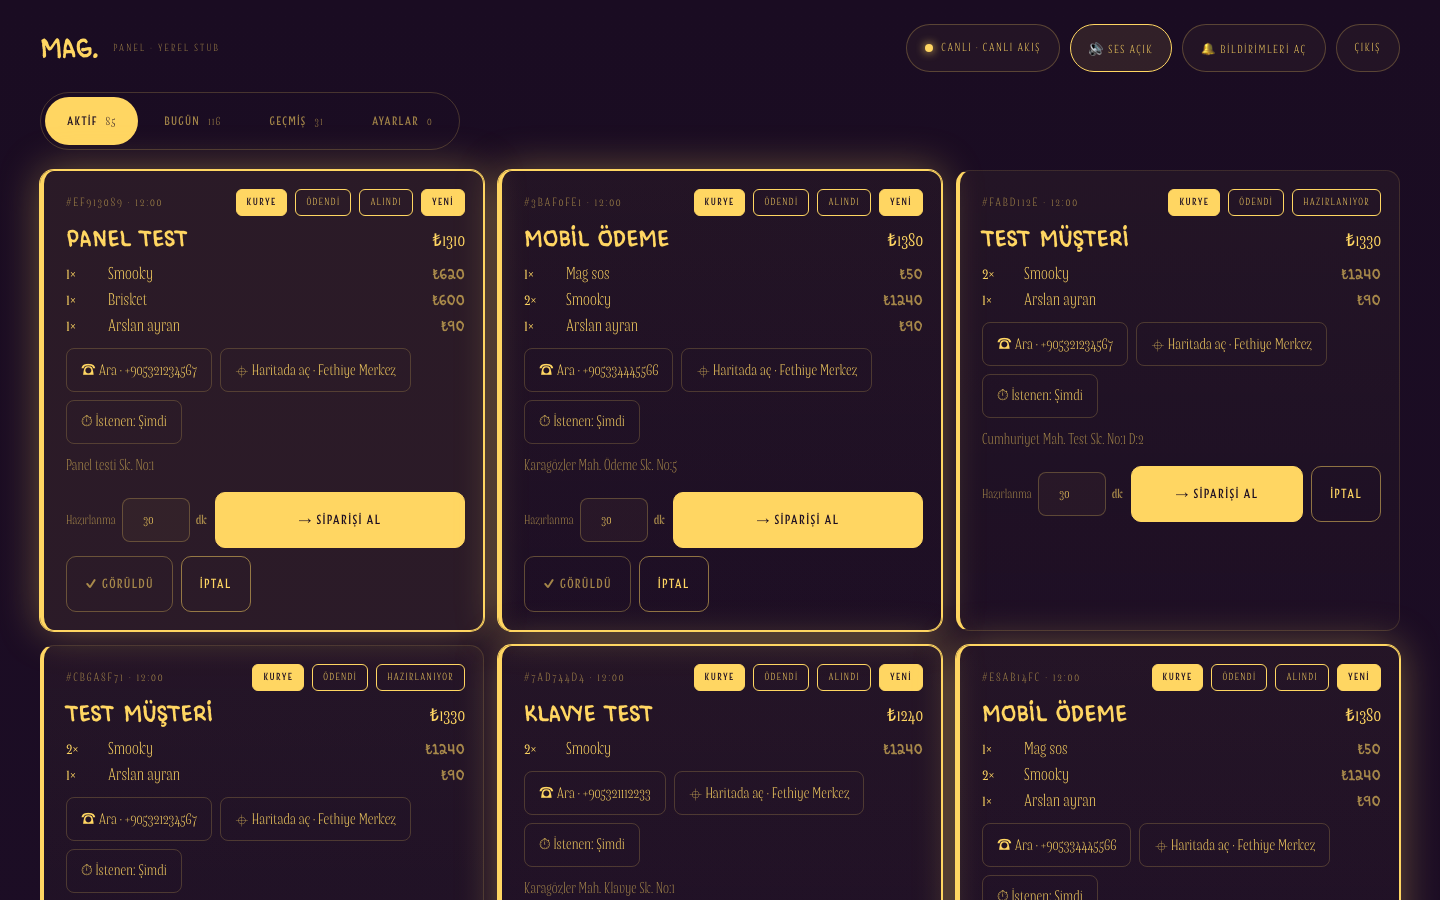
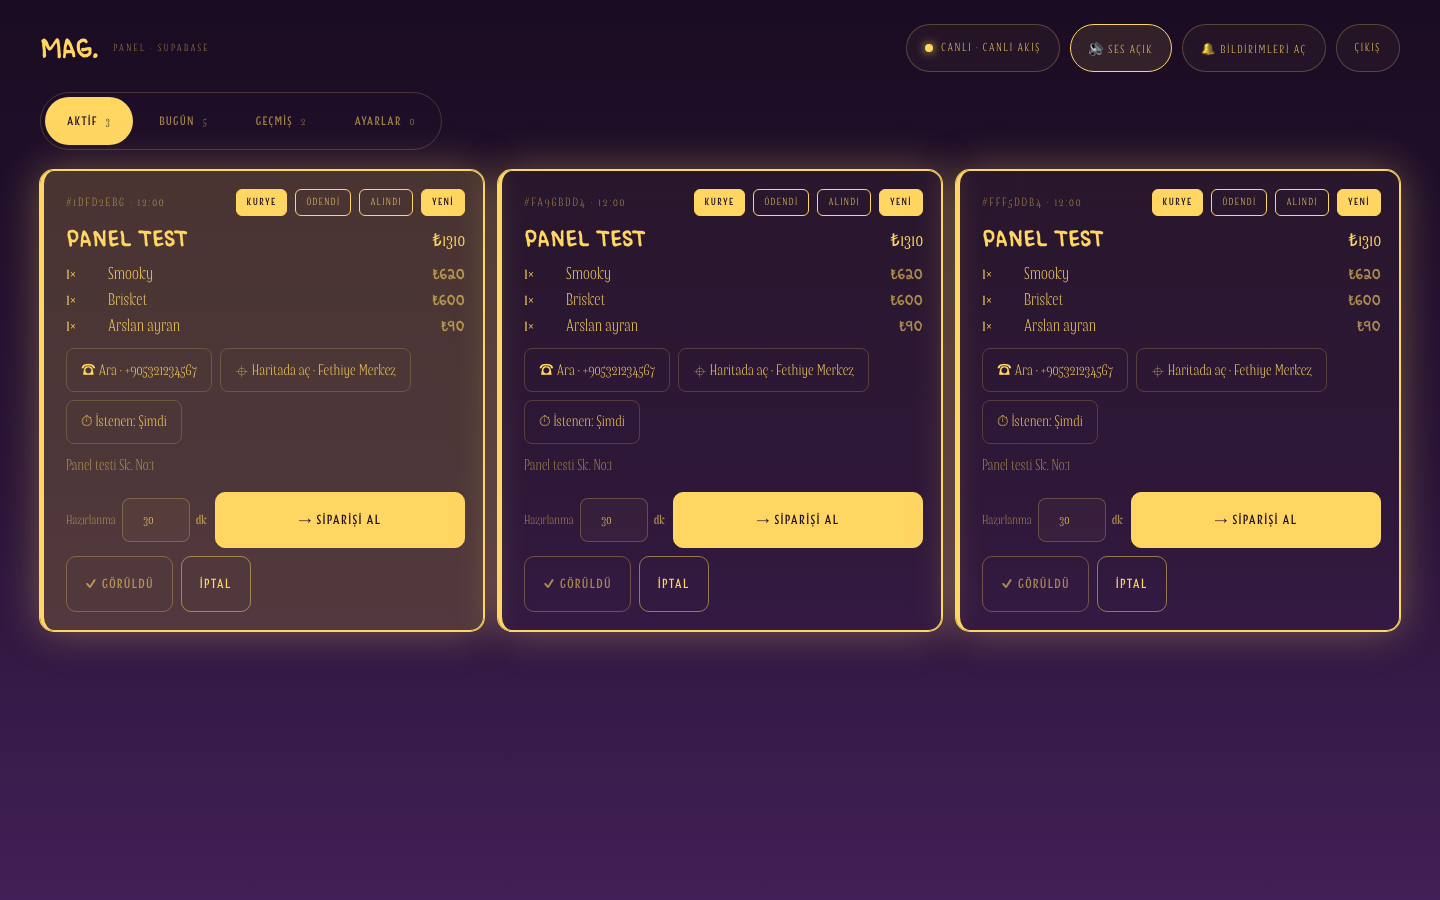
Panel girişi PANEL_KEY'e döndü: Supabase yalnızca veri katmanı
- panelMode(): Supabase anahtarları tanımlı olsa bile PANEL_KEY varsa 'key' modu döner.
  Supabase Auth artık zorunlu değil; isPanelAuthorized önce PANEL_KEY (başlık ya da imzalı
  httpOnly çerez) bakar, Supabase Bearer token'ı yalnızca ek yol olarak kabul edilir.
- Panel canlı akışı SSE'ye alındı. Neden: Supabase realtime, WAL satırını ABONENİN rolüyle
  RLS'ten geçiriyor; panel tarayıcıda anon anahtarıyla dinliyor ve 'orders' üzerinde anon SELECT
  politikası yok (bilinçli). Ölçüldü: panel açıkken paid güncellemesi 6 sn boyunca hiç gelmedi.
  SSE panel API'siyle aynı PANEL_KEY kapısından geçiyor, anon'a hiçbir okuma açılmıyor.
- Geçici Supabase Auth test kullanıcısı silindi; Auth tablosu boş.
- panel.mjs: canlı akış bağlanana kadar bekler (abonelik kurulmadan sipariş verilirse kayıt kaçıyordu),
  mobil kontrolü sipariş sekmesine döner. supabase-proof.mjs PANEL_KEY moduna göre güncellendi.

diff --git a/lib/panel-auth.ts b/lib/panel-auth.ts
@@ -1,7 +1,12 @@
 /**
- * Panel yetkisi — ÇİFT YOL:
- *  - Supabase varsa: `Authorization: Bearer <access_token>` (Supabase Auth, e-posta/şifre).
- *  - Yoksa: PANEL_KEY. `x-panel-key` başlığı ya da 30 günlük imzalı httpOnly çerez (`mag_panel`).
+ * Panel yetkisi — TEK ORTAK ŞİFRE (PANEL_KEY).
+ *
+ * KARAR (7 Eyl 2026, kullanıcı): Supabase YALNIZCA veri katmanıdır; kimlik doğrulama için
+ * kullanılmaz. Supabase anahtarları tanımlı olsa bile panel PANEL_KEY ile açılır.
+ *
+ *  - PANEL_KEY: `x-panel-key` başlığı ya da 30 günlük imzalı httpOnly çerez (`mag_panel`).
+ *  - Supabase Auth (Bearer) hâlâ KABUL EDİLİR ama zorunlu değildir: mevcut oturumlar kırılmasın
+ *    diye ek bir yol olarak durur; panel arayüzü şifre kapısını gösterir.
  *  - PANEL_KEY tanımsız: geliştirmede açık, üretimde (NODE_ENV=production) her zaman 401.
  */
 import { createHmac, timingSafeEqual } from "node:crypto";
@@ -12,10 +17,14 @@ export const PANEL_COOKIE = "mag_panel";
 export const PANEL_COOKIE_DAYS = 30;
 
 export type PanelMode = "supabase" | "key" | "open";
+/**
+ * Panelin göstereceği kapı. PANEL_KEY varsa HER ZAMAN şifre kapısı — Supabase anahtarları
+ * tanımlı olsa bile (Supabase yalnızca veri katmanı). Anahtar yoksa: geliştirmede açık,
+ * üretimde "key" (yani hiç kimse geçemez).
+ */
 export function panelMode(): PanelMode {
-  if (hasSupabaseServer()) return "supabase";
   if (process.env.PANEL_KEY) return "key";
-  return isProduction() ? "key" : "open"; // üretimde anahtar yoksa da "key" modu → hiç kimse geçemez
+  return isProduction() ? "key" : "open";
 }
 
 function sign(exp: number): string {
@@ -53,15 +62,22 @@ function cookieValue(req: Request, name: string): string | undefined {
 export async function isPanelAuthorized(req: Request): Promise<boolean> {
   const mode = panelMode();
   if (mode === "open") return true;
-  if (mode === "supabase") {
+
+  // 1) Asıl yol: PANEL_KEY (başlık ya da imzalı httpOnly çerez)
+  if (process.env.PANEL_KEY) {
+    if (checkPanelKey(req.headers.get("x-panel-key"))) return true;
+    if (verifyPanelToken(cookieValue(req, PANEL_COOKIE))) return true;
+  }
+
+  /* 2) Ek yol: Supabase Auth Bearer token'ı. Zorunlu değil; Supabase yapılandırılmışsa
+     var olan bir oturumla gelen isteği de kabul ederiz. PANEL_KEY yoksa tek geçerli yol budur. */
+  if (hasSupabaseServer()) {
     const auth = req.headers.get("authorization") || "";
     const token = auth.startsWith("Bearer ") ? auth.slice(7) : "";
-    if (!token) return false;
-    const { data, error } = await supabaseAdmin().auth.getUser(token);
-    return !error && Boolean(data.user);
+    if (token) {
+      const { data, error } = await supabaseAdmin().auth.getUser(token);
+      if (!error && data.user) return true;
+    }
   }
-  // key modu
-  if (!process.env.PANEL_KEY) return false; // üretim, anahtar yok → kapalı
-  if (checkPanelKey(req.headers.get("x-panel-key"))) return true;
-  return verifyPanelToken(cookieValue(req, PANEL_COOKIE));
+  return false;
 }

diff --git a/components/panel/PanelApp.tsx b/components/panel/PanelApp.tsx
@@ -1,7 +1,6 @@
 "use client";
 
 import { useCallback, useEffect, useMemo, useRef, useState } from "react";
-import { hasSupabaseClient } from "@/lib/env";
 import { getMessages } from "@/lib/i18n";
 import { OPEN_STATUSES, type Order, type OrderStatus } from "@/lib/orders";
 import { apiFetch } from "@/lib/panel-client";
@@ -136,18 +135,17 @@ export default function PanelApp() {
       const list = (await res.json()) as Order[];
       setOrders(new Map(list.map((o) => [o.id, o])));
 
-      if (hasSupabaseClient && store === "supabase") {
-        const sb = supabaseBrowser()!;
-        const ch = sb
-          .channel("orders-feed")
-          .on("postgres_changes", { event: "INSERT", schema: "public", table: "orders" }, (p) => upsert(p.new as Order, true))
-          .on("postgres_changes", { event: "UPDATE", schema: "public", table: "orders" }, (p) => upsert(p.new as Order, false))
-          .subscribe((s) => setLive(s === "SUBSCRIBED"));
-        stop = () => {
-          sb.removeChannel(ch);
-        };
-        setFeed("realtime");
-      } else {
+      /* CANLI AKIŞ SEÇİMİ
+         Supabase realtime, WAL'dan gelen satırı ABONENİN rolüyle RLS'ten geçirir. Panel tarayıcıda
+         anon anahtarıyla dinler; `orders` üzerinde anon SELECT politikası YOK (bilinçli: müşteri
+         verisi anon'a açılmamalı), bu yüzden INSERT/UPDATE olayları abonelere hiç düşmüyordu —
+         ölçüldü: panel açıkken paid güncellemesi 6 sn boyunca gelmedi.
+
+         Çözüm: panel akışı sunucu üzerinden (SSE). Panel API'si zaten PANEL_KEY ile korunuyor ve
+         SSE aynı kapıdan geçiyor; anon'a hiçbir okuma açmadan canlı kalıyoruz. Realtime'ı kullanmak
+         için `orders` üzerinde authenticated SELECT + panelde Supabase Auth oturumu gerekir ki
+         kullanıcı kararı panelin PANEL_KEY ile açılması yönünde. */
+      {
         /* SSE; bağlantı kurulamazsa 5 sn poll'a düş (panel her hâlükârda güncel kalsın) */
         const es = new EventSource("/api/orders/stream");
         let pollTimer = 0;
